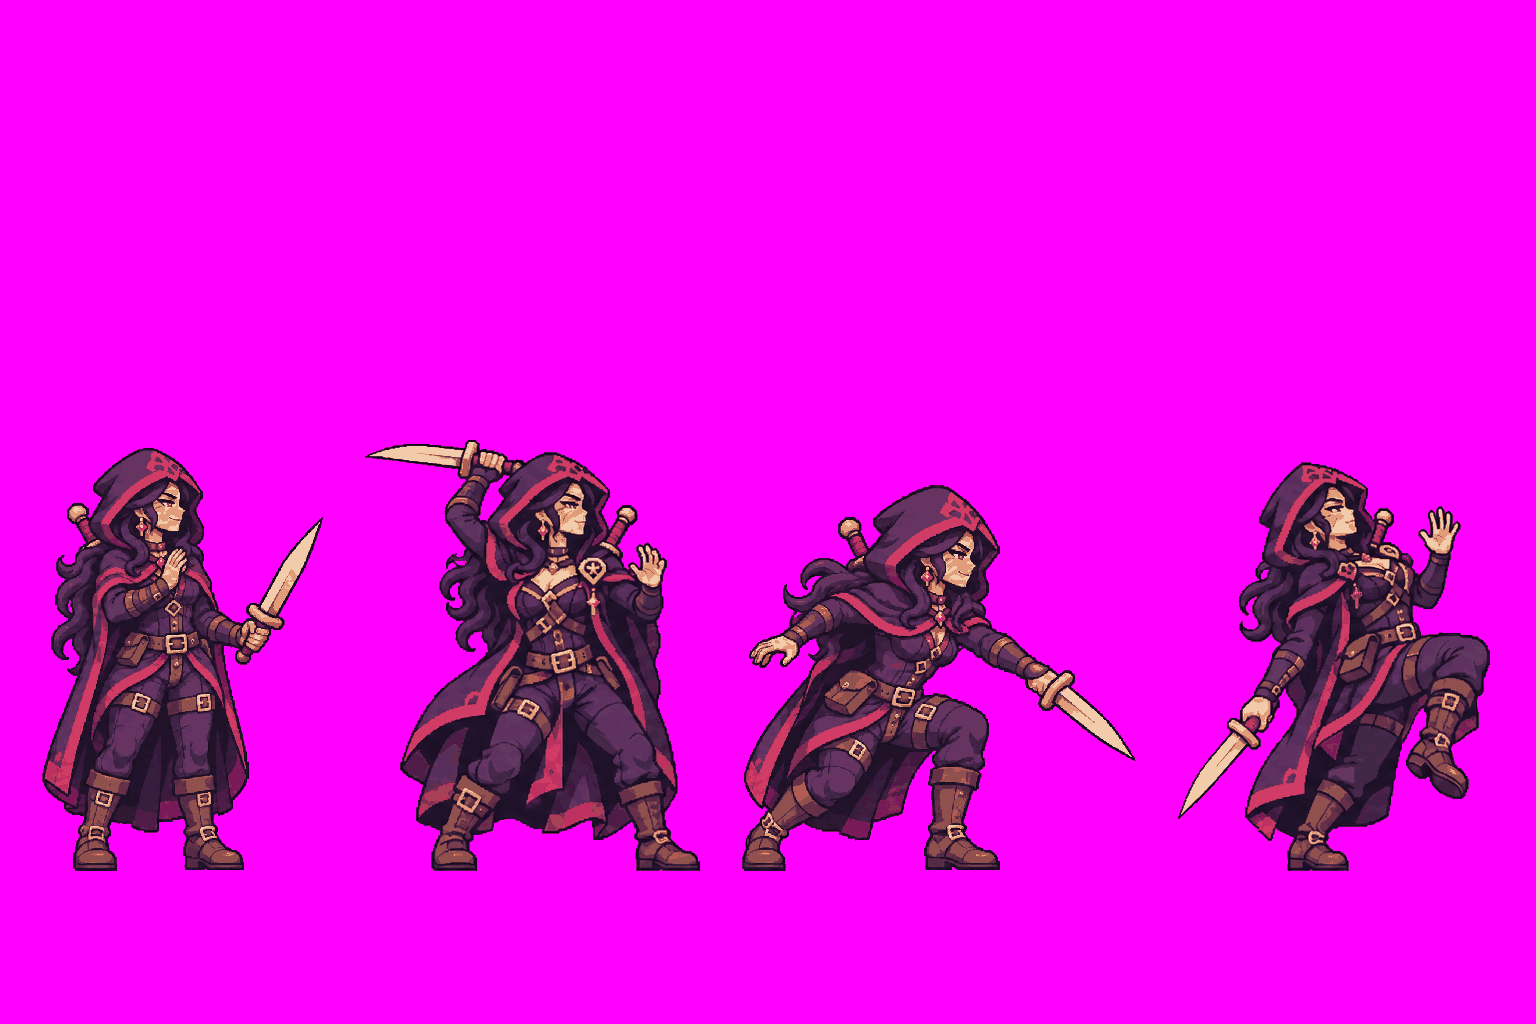
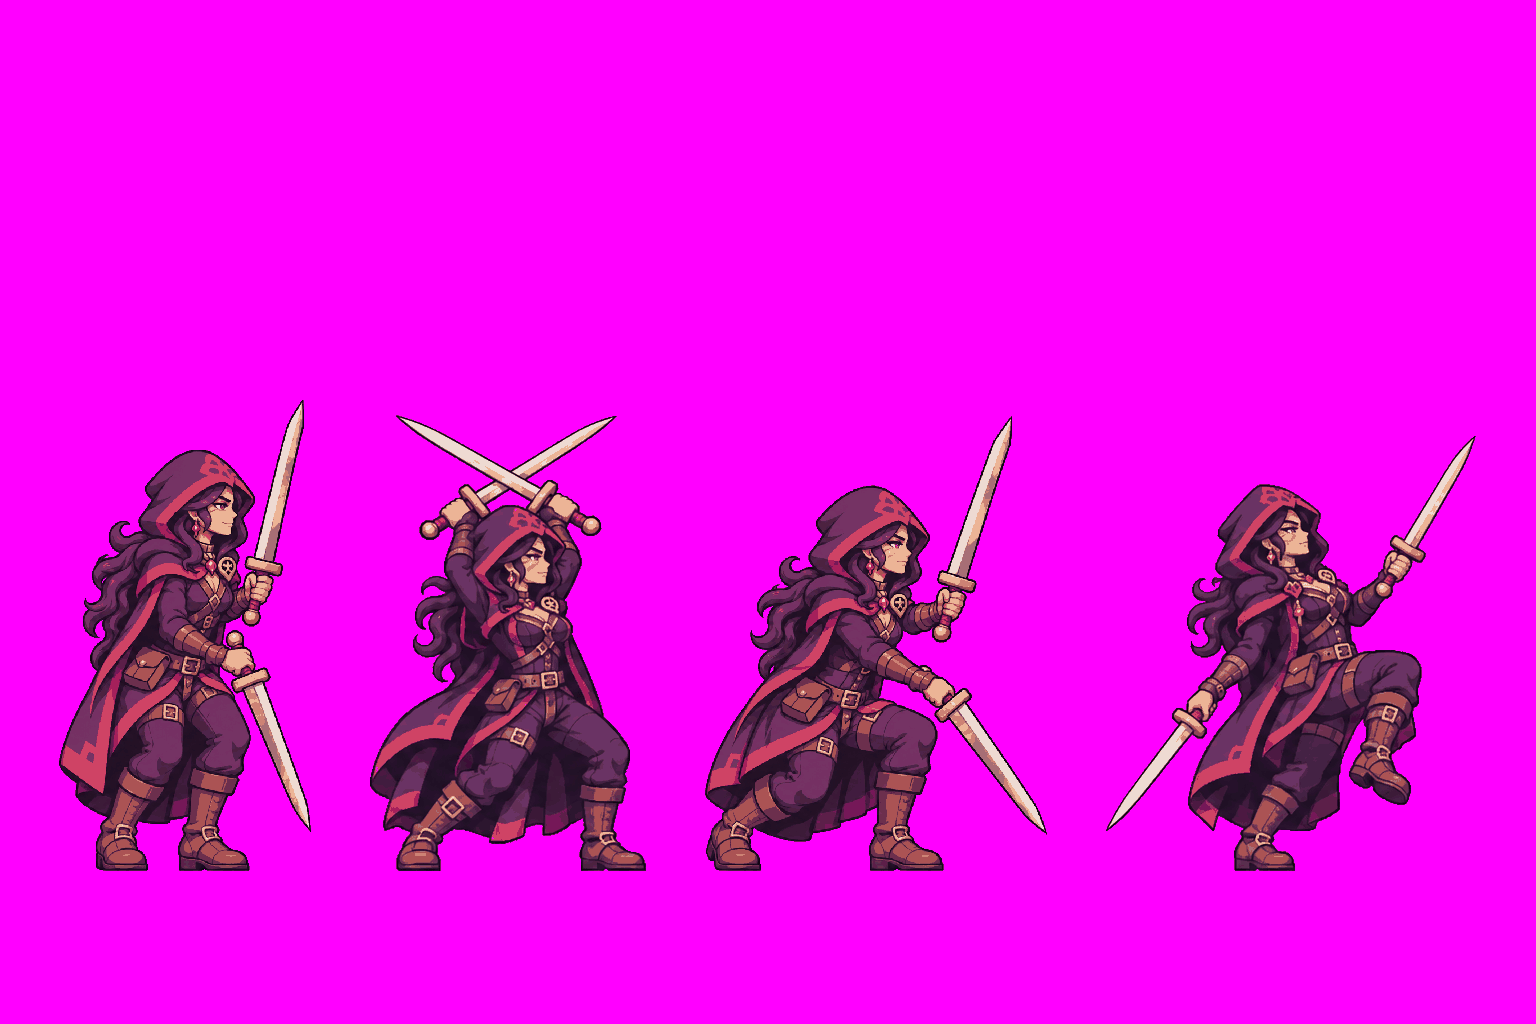
art: deliver Nikla twin swords battle sprite

Changed region(s): [[0.0312, 0.4062, 0.9688, 0.875]]

diff --git a/art/inbox/NOTES.md b/art/inbox/NOTES.md
@@ -515,3 +515,10 @@ REFERENCES LOADED: portrait_800.jpg OK; guide_strip.png OK; guide_1_idle.png, gu
 DEVIATIONS: (a) 가이드 검 대신 확정 디자인인 양손 돌망치. 대기 몸 높이 406px, 양팔과 어깨 폭을 유지. 1번과 2번의 x 투영이 3px 겹치지만 실제 그림 간 키 색 여백은 분리돼 있고 4포즈 검사를 통과; 변환기는 연결 덩어리 기준으로 네 자세를 분리. 4번 앞발을 들고 망치를 뒤로 낮춤. (b) none. (c) none.
 RISKS AT GAME SIZE: 112px 변환 준비 자세 80px. 망치 머리는 네 자세에서 몸 밖에 남으나 금빛 소용돌이 룬은 축소 시 점으로 보일 수 있음. 피격 기준 발 보정과 타격 때 망치 머리 높이는 실제 전투 확인 부탁.
 PROPOSALS: none.
+
+## sheet/captain/shadowqueen - 니클라 쌍검
+CHECK: RESULT: PASS
+REFERENCES LOADED: 승인본 c9d582c OK; portrait_800.jpg OK; guide_strip.png OK; guide_1_idle.png, guide_2_windup.png, guide_3_strike.png, guide_4_hit.png OK; Baren anchor OK.
+DEVIATIONS: (a) THIS ROUND의 동작을 우선해 1번 열린 V·2번 어깨 위 X·3번 낮은 가위 베기·4번 양옆으로 젖힘. 대기 몸 421px, 발 y=870. 2번은 X가 읽히도록 두 날이 한 지점에서만 교차하고 나머지는 분리. 공간을 위해 1·3번 검을 가파르게 들고 내렸으며 날은 요청의 220px보다 짧게 읽힐 수 있음. (b) 초상화의 칼 두 자루는 양손에 옮겨 등에 남기지 않음. (c) none.
+RISKS AT GAME SIZE: 96px 변환에서 V·X·열리는 두 날이 구분됨. 2번 교차점과 3번 망토에 가까운 아래 손목이 실제 전투 배경에서도 따로 읽히는지 확인 부탁. 피격 중심 보정 -4px.
+PROPOSALS: 이전 등록본 교체 여부는 클로드 검수 후 결정.
